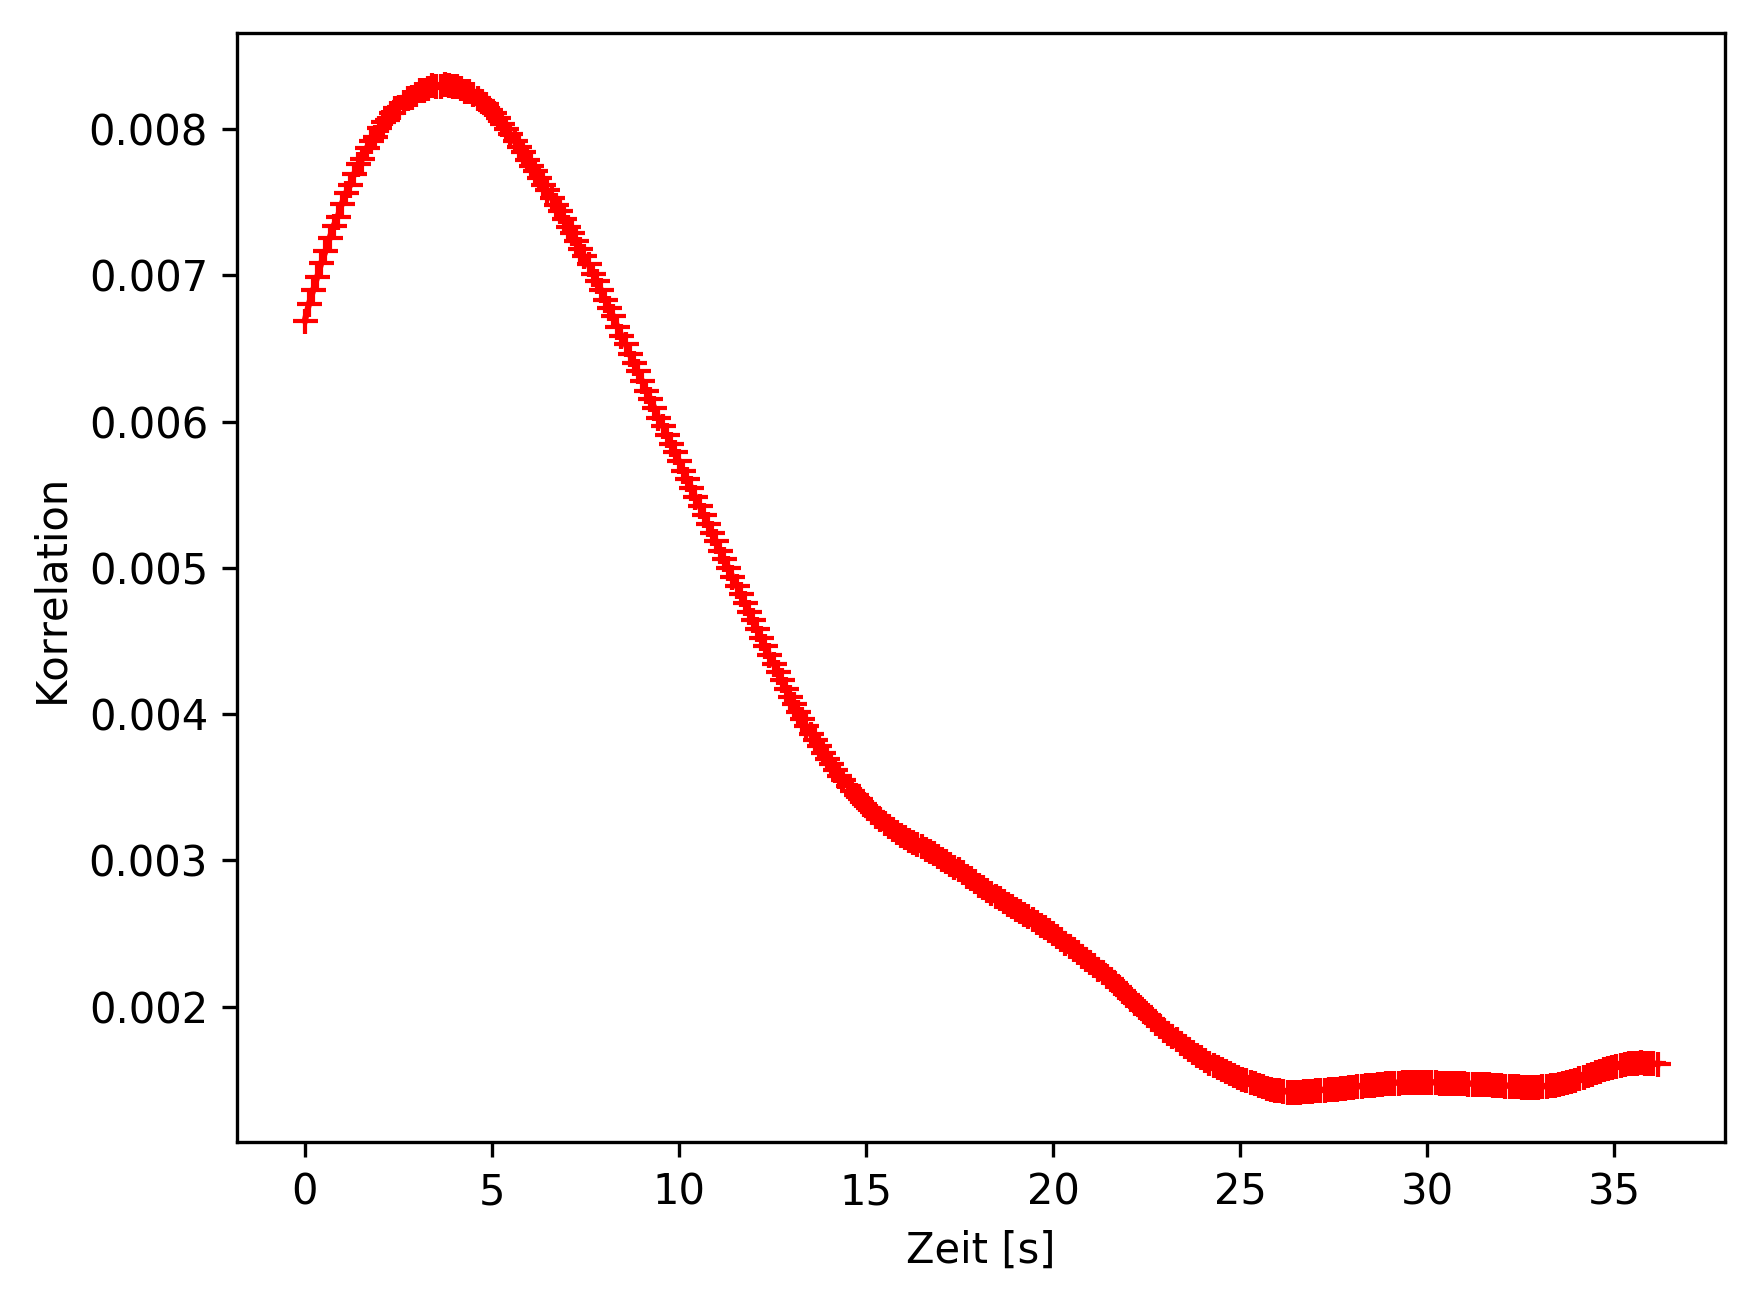
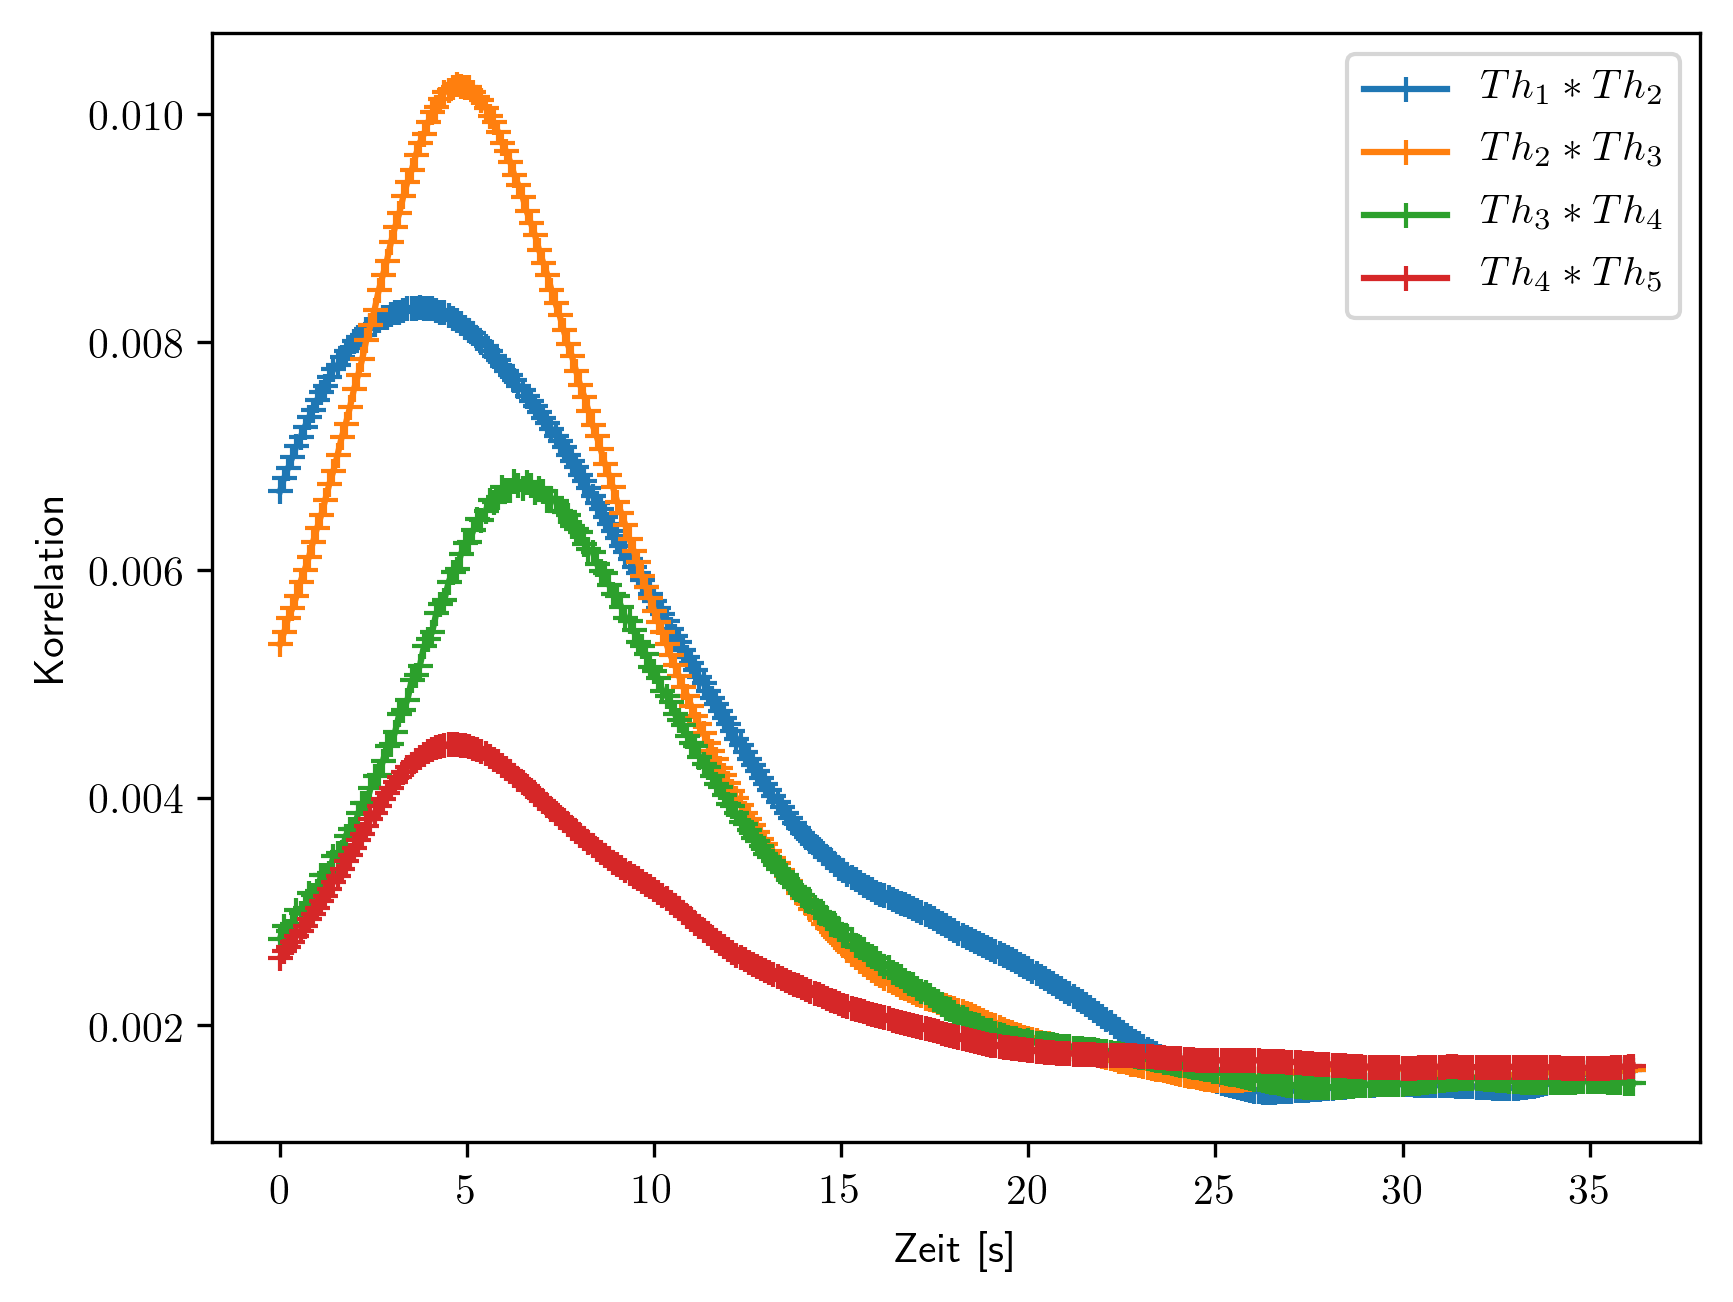
Continued things

diff --git a/RBK.tex b/RBK.tex
@@ -265,8 +265,8 @@
 
 %Um auch Umlaute in den Kommentaren auswerten zu können
 \lstset{
-literate = {Ö}{{\"O}}1 {Ä}{{\"A}}1 {Ü}{{\"U}}1 {ß}{{\ss}}2 {ü}{{\"u}}1
-           {ä}{{\"a}}1 {ö}{{\"o}}1
+literate = {Ö}{{\"O}}1 {Ä}{{\"A}}1 {Ü}{{\"U}}1 {ß}{{\ss}}2 {ü}{{ü}}1
+           {ä}{{ä}}1 {ö}{{ö}}1
 }
 
 %Formatierung des Quellcode
@@ -443,7 +443,7 @@ Diese Näherung ist auch als \textsc{Boussinesq}-Näherung bekannt.
 Zur besseren Vergleichbarkeit von verschiedenen Experimenten wird eine Entdimensionalisierung durchgeführt.
 Dazu werden alle vorkommenden Konstanten und Variablen in Abhängigkeit von charakteristischen Größen des Versuchs ausgedrückt.
 Z.B. Ortsvektoren in Einheiten der Höhe $\vec{r}=\vec{r'} L$, Zeiten in Einheiten der Höhe und Viskosität $t=t' \frac{L^2}{\nu}$ und Geschwindigkeiten in Einheiten des Orts und der Zeit $\vec{v}=\vec{v'}\frac{\nu}{L}$.
-Mit $'$ versehenen Variablen sind die korrespondierenden dimensionslosen Variablen, wobei im Folgenden der \"Ubersichtlichkeit halber die $'$ in der Notation ausgelassen werden.
+Mit $'$ versehenen Variablen sind die korrespondierenden dimensionslosen Variablen, wobei im Folgenden der Übersichtlichkeit halber die $'$ in der Notation ausgelassen werden.
 
 Somit lässt sich die Navier-Stokes-Gleichung auch zu
 \begin{align}
@@ -485,7 +485,7 @@ Aus einfachen Überlegungen lässt sich schnell nachvollziehen, dass für die Nu
 Eine weitergehende Beschreibung der Nusselt-Zahl und möglicher Abhängigkeiten zu den anderen Parameters kann im Buch von J.S. Turner \cite{Bef} in den Kapiteln 7.1.1, 7.1.3 und 7.3.1 nachgelesen werden.
 %Bild des Temperaturprofils aus der Simulation
 
-\subsection{Plumes - Bewegungsformen und Profile}
+\subsection{Plumes}
 Bisher wurden nur über lange Zeiträume gemittelte Effekte näher betrachtet.
 Es stellt sich jedoch heraus, dass es auch spontane, die Symmetrie brechende Effekte gibt, beispielsweise Plumes.
 Plumes sind durch Dichteunterschiede auftretende Strömungen, welche von einer Auftriebsquelle ausgehen.
@@ -509,7 +509,8 @@ Dieses Phänomen kann man auch in Abb. \ref{fig:bromo_plumes} sehen, wo sich die
 \end{figure}
 
 \subsection{Large Scale Circulation}
-Die großräumige Zirkulation (Large Scale Circulation, LSC), welche durch Reibungseffekte kontinuierlich abgebremst wird, wird durch zeitlich und räumlich statistisch auftretende Plumes angetrieben.
+Auf großen Zeit- und Längenskalen dominiert die großräumige Zirkulation (Large Scale Circulation, LSC).
+Sie wird durch Reibungseffekte kontinuierlich abgebremst, und durch zeitlich und räumlich statistisch auftretende Plumes im Mittel angetrieben.
 Die möglichen Formen der LSC sind sehr vielfältig und können zum Beispiel hexagonal oder auch walzenförmig sein.
 Um diese Formen auch in sehr turbulenten Strömungen zu erkennen, muss das Geschwindigkeitsfeld zeitlich gemittelt werden. 
 Je kleiner die Rayleigh-Zahl, desto kleiner die Turbulenz und desto kürzer muss der Zeitraum der Mittelung sein, um LCS zu sehen.
@@ -522,7 +523,7 @@ Je kleiner die Rayleigh-Zahl, desto kleiner die Turbulenz und desto kürzer muss
 
 Wie häufig ein Plume entsteht und wie stark er (im stochastischen Mittel) eine LSC antreibt hängt von der Rayleigh-Zahl ab und spiegelt sich im Turbulenzgrad wieder.
 Diese Plumes sind gut zu messen, da sie einen deutlichen Temperatur- und damit und Dichte-Unterschied zur Umgebung aufweisen.
-Hierauf wird in den Kapiteln \ref{sec:schatte} und \ref{sec:profile} näher eingegangen.
+Hierauf wird in den Kapiteln \ref{sec:schattenproj} und \ref{sec:profile} näher eingegangen.
 
 \newpage
 \section{Experiment und Setup}
@@ -540,7 +541,7 @@ Die Widerstände der Thermistoren können durch ein Multimeter oder eine Wheatst
 
 \subsection{Thermistoren}
 Ein Thermistor ist ein temperaturabhängiger Widerstand.
-Diese Abhängigkeit muss vorher bestimmt werden um aus dem gemessenen Widerstand die Temperatur zurückzurechnen.
+Ist diese Abhängigkeit bekannt, so kann aus dem gemessenen Widerstand die Temperatur zurückgerechnet werden.
 Die hier verwendeten Thermistoren sind sogenannte Heißleiter, also Widerstände die mit steigenden Temperaturen geringer werden (NTC-Widerstände).
 
 \subsection{Wheatstonebrücke}
@@ -558,8 +559,15 @@ Die Widerstände $R_1$ und $R_3$ sind bekannt.
 Das Potentiometer $R_2$ wird zur Eichung der Brücke verwendet und der unbekannte Widerstand $R_x=R_{th}$ ist der Thermistor.
 Ist die Brücke abgeglichen, sprich die Spannung $V_G=0$, so kann man unter Zuhilfe der Kirchhoffschen Knoten- und Maschen-Regeln nachrechnen, dass gilt
 \begin{align*}
-	\frac{R_3}{R_1}=\frac{R_{th}}{R_2}\quad.
+	\frac{R_3}{R_1}=\frac{R_x}{R_2}\quad.
 \end{align*}
+
+Ändert sich der Widerstand $R_1\rightarrow R_1+\Delta R$, so kann durch Nachrechnen der Kirchhoffschen Knoten- und Maschenregel folgende Identität für das Spannungsverhältnis hergeleitet werden:
+\begin{align}
+	\frac{U_5}{U}=\frac{1+v}{1+v+k}-\frac{1}{1+k}\quad.
+	\label{eq:spannungsveraeltnis}
+\end{align}
+Dabei bezeichnet $v=\frac{\Delta R_1}{R_1}$ die Verstimmung und $k=\frac{R_2}{R_1}=\frac{R_x}{R_3}$ das Brückenverhältnis.
 
 \subsection{Nyquist-Shannon-Abtasttheorem}
 Das \textsc{Nyquist-Shannon}-Abtasttheorem besagt, dass man zur korrekten Rekonstruktion eines Signals $S$ dieses mit mehr als der doppelten maximal darin vorkommenden Frequenz $f_{\text{max, }S}$ messen muss.
@@ -586,12 +594,12 @@ Sie berechnet sich aus der Faltung der beiden Signale:
 	\label{eq:faltung}
 \end{align}
 Das Maximum in der Kurve gibt nun an, mit welche Abstand die meisten Plumes an den beiden Thermistoren vorbeikamen.
-Da das Ausrechnen des Integrals f\"ur alle Zeiten $t$ sehr rechenintensiv ist, kann man stattdessen vom \textit{Faltungstheorem} gebrauch machen, welches besagt
+Da das Ausrechnen des Integrals für alle Zeiten $t$ sehr rechenintensiv ist, kann man stattdessen vom \textit{Faltungstheorem} gebrauch machen, welches besagt
 \begin{align}
 	\mathcal F(f*g)=\sqrt{2\pi}\mathcal F(f)\cdot\mathcal F(g)\quad.
 	\label{eq:faltungssatz}
 \end{align}
-Dadurch muss man nur noch das Produkt der Fouriertransformierten ausrechnen und das Ergebnis r\"ucktransformieren.
+Dadurch muss man nur noch das Produkt der Fouriertransformierten ausrechnen und das Ergebnis rücktransformieren.
 
 
 \newpage
@@ -599,7 +607,7 @@ Dadurch muss man nur noch das Produkt der Fouriertransformierten ausrechnen und 
 \label{sec:auswertung}
 
 \subsection{Schattenprojektion}
-\label{sec:schatte}
+\label{sec:schattenproj}
 Bei einer Schattenprojektion wird ein Fluid mittels einer hellen Lampe angestrahlt und hinter dem Fluid wird ein Schirm beobachtet.
 Durch diesen Aufbau sind Dichteunterschiede erkennbar, da sie in Brechungsindex-Variationen resultieren, welche dann zu helleren bzw. dunkleren Regionen auf dem Schirm führen.
 Um die Geschwindigkeit der Plumes zu bestimmen wird die Bewegung ihrer Schatten auf einem Schirm beobachtet und die Laufzeit durch bestimmte Abstände gemessen.
@@ -662,12 +670,12 @@ In ihr ist auch die Standardabweichung gering, was darauf schließen lässt, das
 
 
 \subsection{Simulierte Profile und Daten}
-Da die Konstruktion und Durchf\"uhrung von Experimenten mit unterschiedlichen Rayleigh-Zahlen aufw\"andig ist, greifen Experimentatoren in diesem Bereich gerne auf Simulationen zur\"uck.
-Allerdings steigt der Rechenaufwand f\"ur gro{\ss}e Rayleigh-Zahlen rasant an, so dass es irgendwann nicht mehr sinnvoll ist.
-Auch sind die hier durchgef\"uhrten Simulationen nur zweidimensional, wodurch bestimmte Effekte des Experiments nicht rekonstruiert werden k\"onnen.
-Dennoch stimmen die Ergebnisse im Allgemeinen gut mit den Messwerten \"uberein.\\
+Da die Konstruktion und Durchführung von Experimenten mit unterschiedlichen Rayleigh-Zahlen aufwändig ist, greifen Experimentatoren in diesem Bereich gerne auf Simulationen zurück.
+Allerdings steigt der Rechenaufwand für große Rayleigh-Zahlen rasant an, so dass es irgendwann nicht mehr sinnvoll ist.
+Auch sind die hier durchgeführten Simulationen nur zweidimensional, wodurch bestimmte Effekte des Experiments nicht rekonstruiert werden können.
+Dennoch stimmen die Ergebnisse im Allgemeinen gut mit den Messwerten überein.\\
 
-In Abb. \ref{fig:v_num}
+In Abb. \ref{fig:v_num} <++++++++++++++++++++++++++++++++++++++++++++++++++++++++++++++++++++++++++++++++>
 \begin{figure}[!ht]
 	\centering
     \begin{subfigure}[t]{0.49\textwidth}
@@ -683,7 +691,7 @@ In Abb. \ref{fig:v_num}
         \caption{Temperaturprofil}
 	\label{fig:t_num}
     \end{subfigure}
-    \caption{Simulationen f\"ur verschiedene Rayleigh-Zahlen.}
+    \caption{Simulationen für verschiedene Rayleigh-Zahlen.}
 \end{figure}
 
 \begin{figure}[!ht]
@@ -698,23 +706,26 @@ In Abb. \ref{fig:v_num}
 
 
 \subsection{Langzeit- und Korrelationsmessung}
-In Abbildung \ref{fig:korrelation} sind die Korrelation zwischen den ersten beiden Thermistoren aufgetragen.
-Zu erkennen ist deutlich das Maximum bei $\SI{3.7}\s$.
-Die Breite der Korrelation kann man nicht ohne weiteres auswerten, da dort noch zahlreiche Effekte herein spielen, wie die Entstehung eines Plumes beeinflusst die Bildung eines weiteren und noch wichtiger: ein Plume bildet in den Messdaten keinen $\delta$-Peak, sondern er ist in der Gr\"o{\ss}enordnung des Abstands der Thermistoren.
+In Abbildung \ref{fig:korrelation} ist die Korrelation zwischen aufeinanderfolgenden Thermistoren aufgetragen.
+Zu erkennen ist deutlich, dass die Maxima nicht an der selben Position sind.
+Dies ist auch in Figure \ref{fig:V_kor} zu erkennen, in der die Geschwindigkeiten (basierend auf der Peak-Position) aufgetragen sind.
+Dabei ist zu beachten, dass die Thermistoren nicht äquidistant sind.\\
+
+Die Breite der Korrelation kann man nicht ohne weiteres auswerten, da dort noch zahlreiche Effekte herein spielen, wie die Entstehung eines Plumes beeinflusst die Bildung eines weiteren und noch wichtiger: ein Plume bildet in den Messdaten keinen $\delta$-Peak, sondern er ist in der Größenordnung des Abstands der Thermistoren.
 Dadurch verschwindet die Korrelation nicht bei $t=0$ und die Breite des Peaks ist nicht nur durch die Geschwindigkeitsverteilung unterschiedlicher Plumes beeinflusst.
 
 \begin{figure}[!ht]
 	\centering
 	\includegraphics[width=0.7\linewidth]{kor}
-\caption{Korrelation zwischen den Signalen der ersten beiden Thermistoren. Das Maximum befindet sich bei $3.7\si\s$}
+	\caption{Korrelation zwischen den Signalen aufeinanderfolgender Thermistoren. Die Maxima befinden sich zwischen $3.7$ und $6.2\si\s$.}
 \label{fig:korrelation}
 \end{figure}
 
 
-Aus der Langzeitmessung kann man jedoch die Temperaturdaten f\"ur die einzelnen H\"ohen nutzen, um diese miteinander im Mittelwert zu vergleichen.
+Aus der Langzeitmessung kann man jedoch die Temperaturdaten für die einzelnen Höhen nutzen, um diese miteinander im Mittelwert zu vergleichen.
 Selbiges ist in Grafik \ref{fig:T_kor} aufgetragen.
-Zu sehen ist, dass die Standardabweichung sehr viel gr\"o{\ss}er ist, als die Schwankungen der Mittelwerte in verschiedenen H\"ohen.
-Dies steht im Einklang mit der Theorie, da die W\"arme ja im Inneren des Containers konvektiv an allen Thermistoren vorbeigeleitet wird, ohne dabei nennenswert Energie zu verlieren oder zu gewinnen.
+Zu sehen ist, dass die Standardabweichung sehr viel größer ist, als die Schwankungen der Mittelwerte in verschiedenen Höhen.
+Dies steht im Einklang mit der Theorie, da die Wärme ja im Inneren des Containers konvektiv an allen Thermistoren vorbeigeleitet wird, ohne dabei nennenswert Energie zu verlieren oder zu gewinnen.
 \begin{figure}[!ht]
 \centering
 \includegraphics[width=0.8\textwidth]{T_kor.png}
@@ -763,7 +774,7 @@ Dies steht im Einklang mit der Theorie, da die W\"arme ja im Inneren des Contain
 \centering
 \begin{tabular}{|l|rrrr|}
 \hline
-                                            &          Zelle &         Erdkern &      Erdmantel &    Atmosph\"are \\
+                                            &          Zelle &         Erdkern &      Erdmantel &    Atmosphäre \\
 \hline\hline
 $\alpha~[\si{\per\kelvin}]$                  &    0.00021     &     1.2e-05     &    1.5e-05     &     0.0037      \\
 $\rho~[\si{\kilo\gram\per\cubic\meter}]$     & 1000           & 12000           & 5000           &     1.29        \\

diff --git a/corellation.py b/corellation.py
@@ -7,12 +7,15 @@ import matplotlib.pyplot as plt
 from glob import glob
 
 def main():
+    matplotlib.rc('text', usetex=True)
     data = np.genfromtxt("Geschwindigkeit_notfallkorrelation.dat")
-    print data[np.argmax(data[:,1]),0], np.max(data[:,1])
     f,ax = plt.subplots()
-    ax.plot(data[:,0],data[:,1],'r+-')
+    for ii in range(1,5):
+        ax.plot(data[:,0],data[:,ii],'+-', label=r'$Th_'+str(ii)+r'*Th_'+str(ii+1)+r'$')
+        print(data[np.argmax(data[:,ii]),0])
     ax.set_xlabel(u"Zeit [s]")
     ax.set_ylabel(r"Korrelation")
+    ax.legend()
     f.savefig("kor.png",dpi=300,bbox_inches="tight")
     #plt.show()
 
